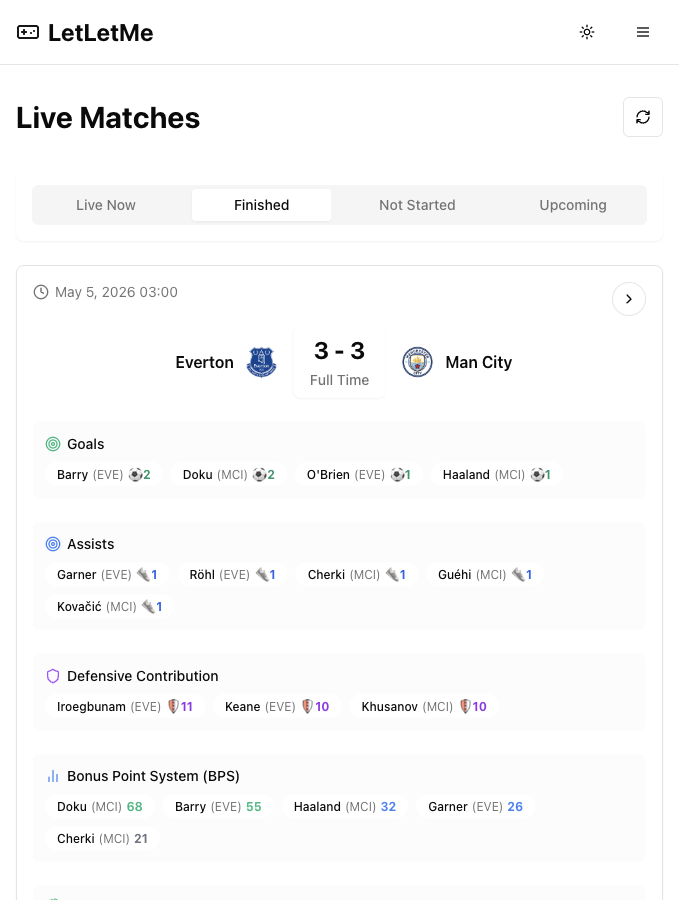
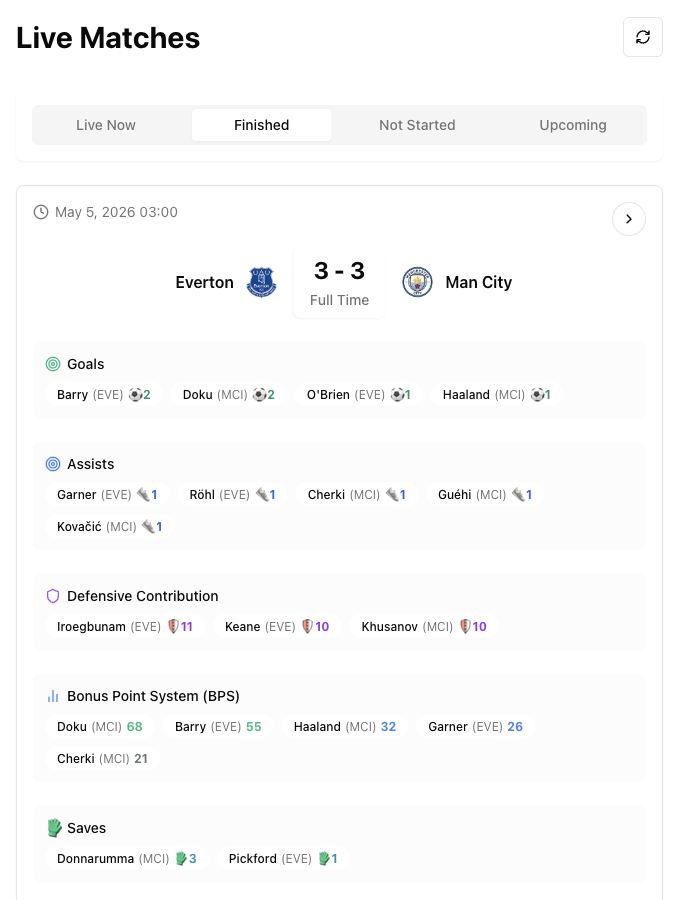
Improve product screenshot composition

diff --git a/README.md b/README.md
@@ -39,16 +39,13 @@ The system combines multiple product and engineering surfaces:
 ## Product Screenshots
 
 ![LetLetMe live tournament workflow](assets/screenshots/live-tournament.png)
-*Authenticated tournament workflow with live standings, filters, ownership checks, and comparison controls.*
+*Authenticated tournament workflow with live standings, ownership filters, team exposure checks, sorting, and comparison controls.*
 
 ![LetLetMe live points](assets/screenshots/live-points.png)
-*Live scoring view with auto-refresh, current entry state, scoring summaries, and gameweek controls.*
+*Live scoring view with scoring summaries, player-level status, list/pitch controls, and current gameweek state.*
 
 ![LetLetMe live matches](assets/screenshots/live-matches.png)
 *Live match breakdown with goals, assists, defensive actions, bonus indicators, and refreshable event state.*
-
-![LetLetMe realtime dashboard](assets/screenshots/dashboard.png)
-*Dashboard for deadline monitoring, price movement, matchup status, and live product state.*
 
 ## Architecture
 
